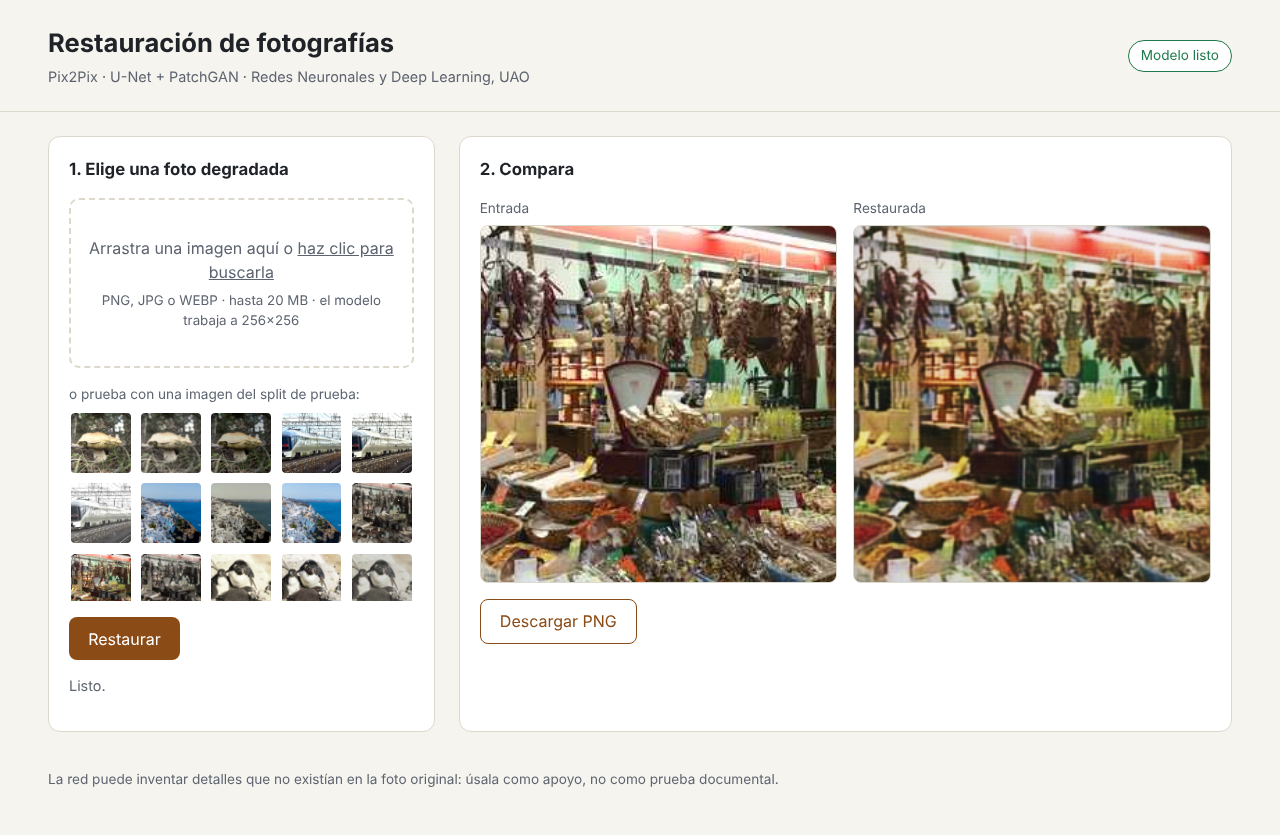
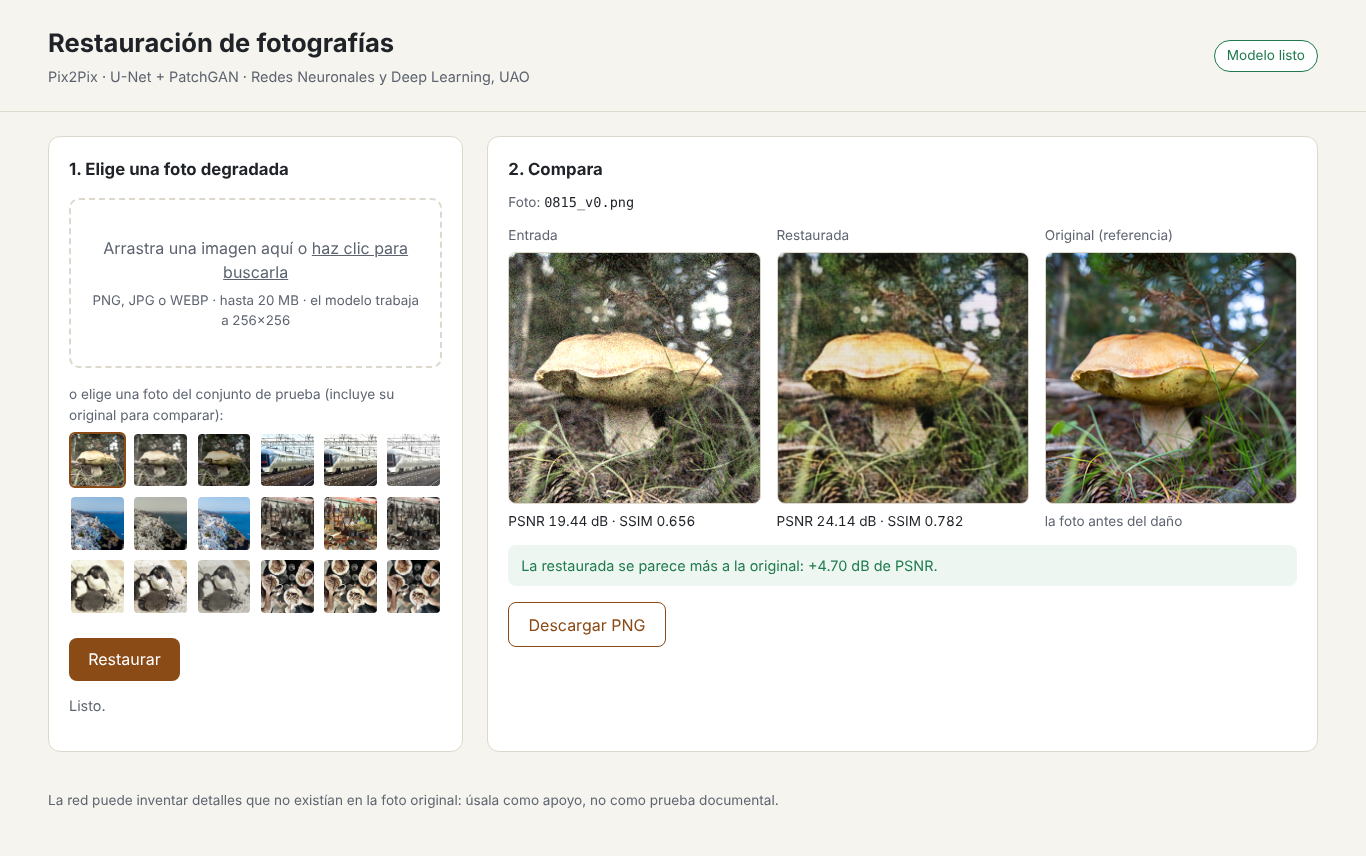
docs(app): documentar la comparación con la original y actualizar la captura

diff --git a/docs/DEMO.md b/docs/DEMO.md
@@ -46,7 +46,8 @@ uvicorn app.server:app --port 8000
 | `GET` | `/api/health` | `{"model_loaded", "checkpoint", "image_size", "error"}`. |
 | `GET` | `/api/examples` | Lista de ejemplos del selector. |
 | `GET` | `/api/examples/{nombre}` | Imagen de ejemplo (solo archivos del índice). |
-| `POST` | `/api/restore` | `multipart/form-data` con `file`; responde `image/png` restaurada. |
+| `GET` | `/api/examples/{nombre}/original` | Original sin daño del ejemplo (si existe `target/`). |
+| `POST` | `/api/restore` | `multipart/form-data` con `file` (y opcional `example`); responde `image/png`. Con `example`, la cabecera `X-Metricas` trae PSNR/SSIM de entrada y restaurada frente a la original. |
 
 Errores: `400` archivo vacío, `413` más de 20 MB, `415` no es imagen, `503` sin modelo.
 
@@ -81,7 +82,14 @@ Así una foto vertical de celular no sale estirada ni rotada.
 Si no hay ni portátil ni Colab: la galería precalculada `docs/img/results_grid.png` y
 `docs/img/failures.png` en las diapositivas, más un video corto de la demo grabado antes.
 
-## 7. Limitaciones
+## 7. Comparación con la original
+
+Si existe `data/processed/test/` (descomprimiendo `datasetv1.zip`), el selector muestra las 45
+fotos de prueba. Al elegir una, o al arrastrar un archivo con el mismo nombre, la página agrega
+una tercera columna **Original (referencia)** y muestra el PSNR y el SSIM de la entrada y de la
+restaurada frente a la original. Así se ve cuánto mejora el modelo en cada foto.
+
+## 8. Limitaciones
 
 - El modelo trabaja a 256×256: en fotos grandes la salida se ve más suave que la original.
 - Puede **inventar** detalles (caras, texto) que no existían; no sirve como prueba documental.
